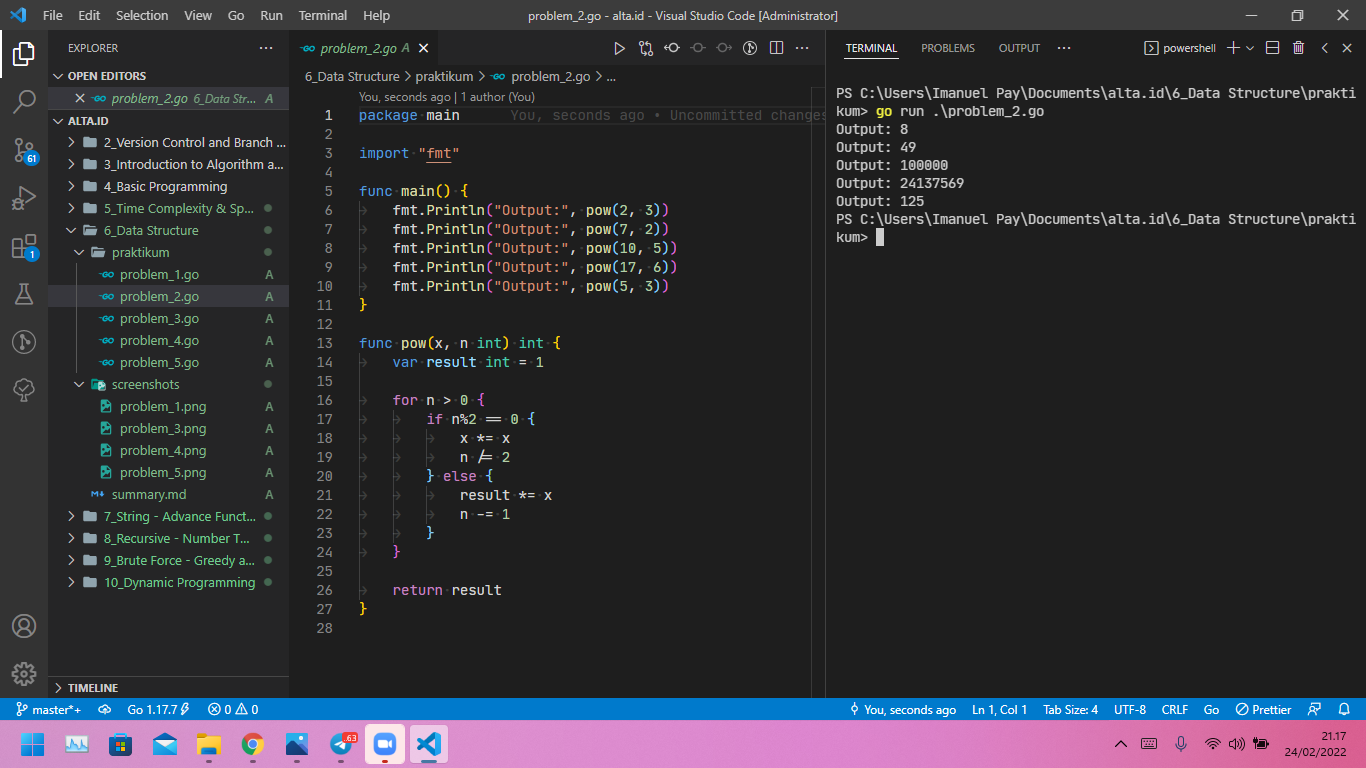
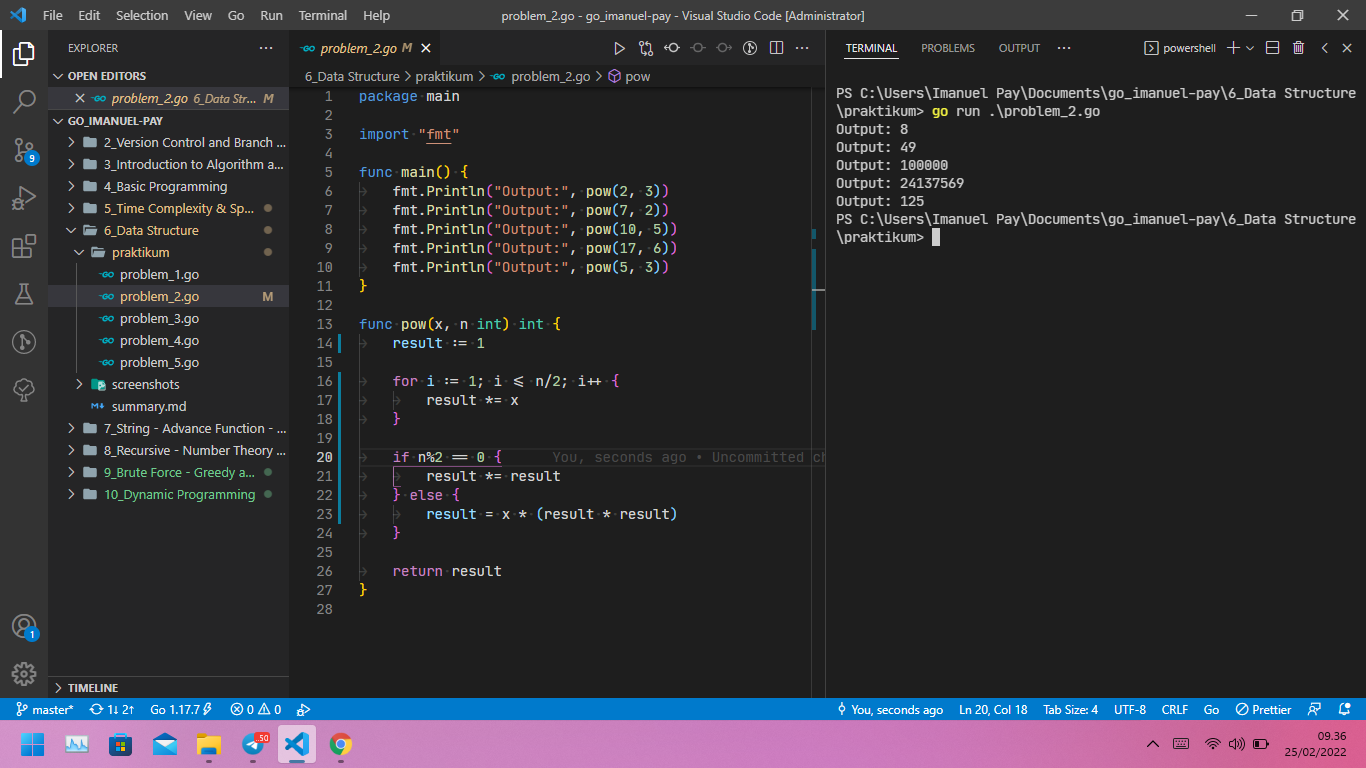
fix: exponentiation with O(n/2)

diff --git a/5_Time Complexity & Space Complexity/praktikum/problem_2.go b/5_Time Complexity & Space Complexity/praktikum/problem_2.go
@@ -14,14 +14,14 @@ func main() {
 func exponentiation(base, n int) int {
 	result := 1
 
-	for n > 0 {
-		if n%2 == 0 {
-			base *= base
-			n /= 2
-		} else {
-			result *= base
-			n -= 1
-		}
+	for i := 1; i <= n/2; i++ {
+		result *= base
+	}
+
+	if n%2 == 0 {
+		result *= result
+	} else {
+		result = base * (result * result)
 	}
 
 	return result

diff --git a/6_Data Structure/praktikum/problem_2.go b/6_Data Structure/praktikum/problem_2.go
@@ -11,16 +11,16 @@ func main() {
 }
 
 func pow(x, n int) int {
-	var result int = 1
+	result := 1
 
-	for n > 0 {
-		if n%2 == 0 {
-			x *= x
-			n /= 2
-		} else {
-			result *= x
-			n -= 1
-		}
+	for i := 1; i <= n/2; i++ {
+		result *= x
+	}
+
+	if n%2 == 0 {
+		result *= result
+	} else {
+		result = x * (result * result)
 	}
 
 	return result
